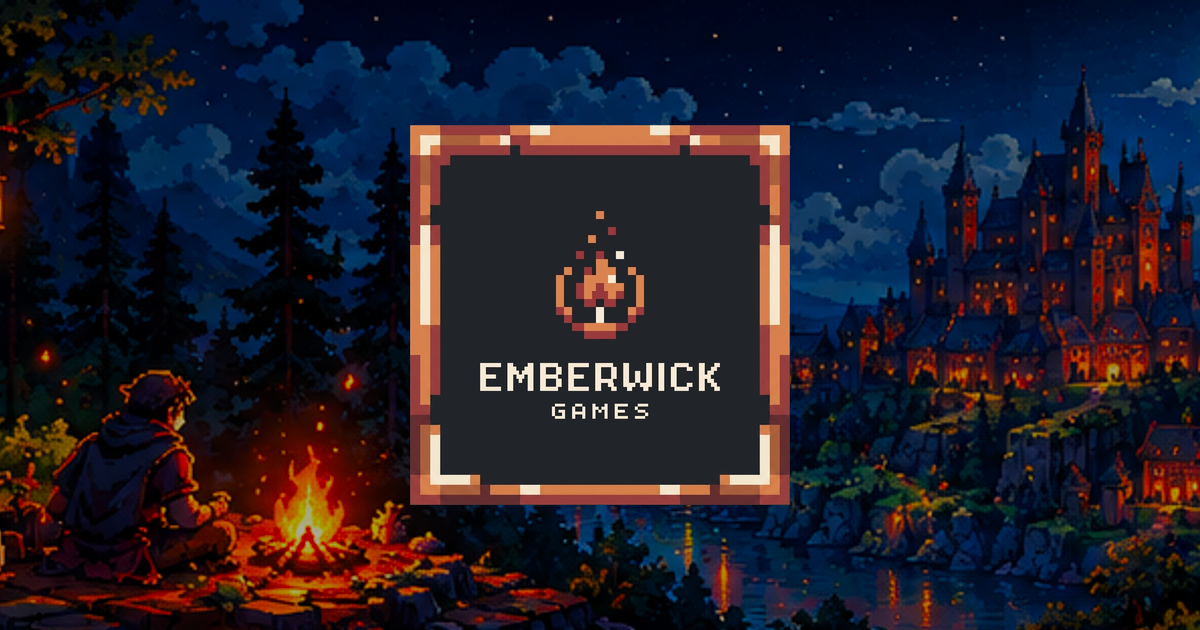
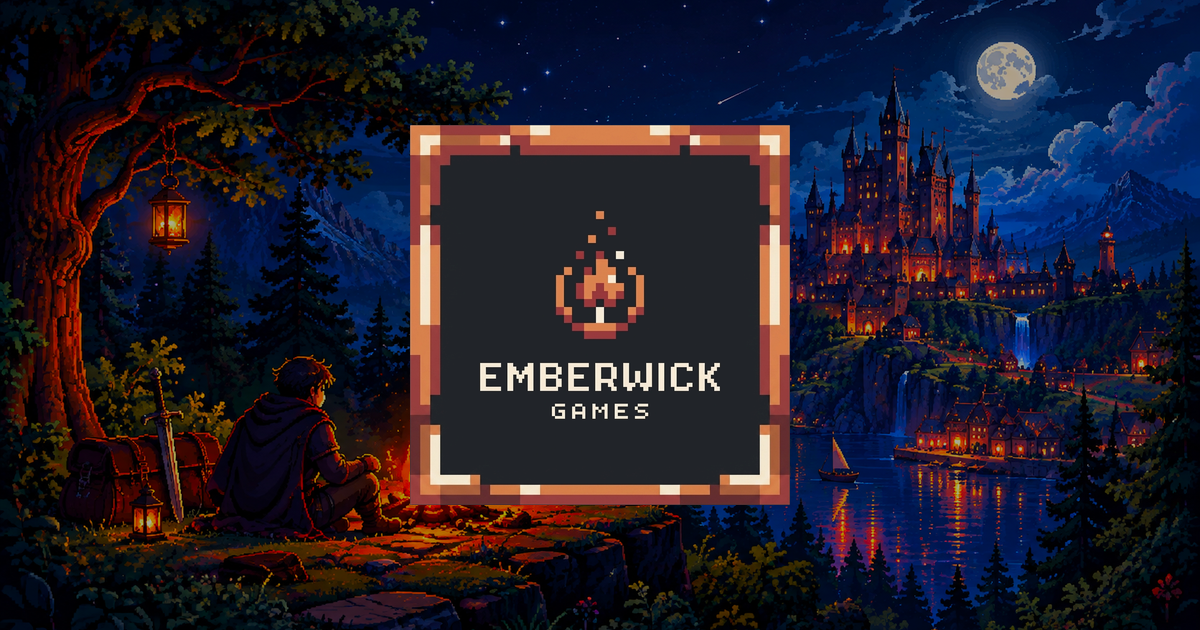
Use dedicated hero scene and refresh OG image
Switch hero background generation from a moodboard crop to the new standalone `Main Page Backgorund.png`, updating `crop-assets.mjs`, `src/assets/scenes/hero.png`, and inventory docs to reflect improved resolution guidance. The Hero component was adjusted for the new composition (spark positions, animation origin, and responsive image widths/sizes), and `public/og-image.png` was regenerated to use the updated hero visual.

diff --git a/docs/asset-inventory.md b/docs/asset-inventory.md
@@ -4,7 +4,8 @@ Her dosya açılıp içeriğine bakılarak tanımlandı; dosya adları esas alı
 
 | Dosya | İçerik | Boyut | Kullanım |
 |---|---|---|---|
-| `Emberwick Games Piksel Sanat Varlık Panosu.png` | **Moodboard**: logo, pixel ikonlar, sosyal ikonlar, buton örnekleri, fontlar, hero/studio/footer/privacy/404 sahneleri, oyun görselleri, Google Play rozeti, dokular | 1536×1024, 2.1 MB | Sanat yönetiminin ana referansı (renk, buton, tipografi, ikon dili). Klasörde sahnelerin ayrı dosyaları olmadığı için şu **yer tutucu kırpımlar** buradan alındı (gömülü yazı ve arayüz öğeleri kırpımın dışında bırakıldı): `scenes/hero.png` (826×312), `scenes/studio.png` (492×212), `scenes/footer.png` (685×95, alttaki sahte menü/logo hariç), `scenes/privacy-scroll.png` (136×148) ve `scenes/privacy-lantern.png` (85×148) (ortadaki "Privacy Policy" yazısı hariç), `scenes/lost-traveller.png` (110×82, 404 sahnesinin yazısız sol kısmı) |
+| `Emberwick Games Piksel Sanat Varlık Panosu.png` | **Moodboard**: logo, pixel ikonlar, sosyal ikonlar, buton örnekleri, fontlar, hero/studio/footer/privacy/404 sahneleri, oyun görselleri, Google Play rozeti, dokular | 1536×1024, 2.1 MB | Sanat yönetiminin ana referansı (renk, buton, tipografi, ikon dili). Klasörde sahnelerin ayrı dosyaları olmadığı için şu **yer tutucu kırpımlar** buradan alındı (gömülü yazı ve arayüz öğeleri kırpımın dışında bırakıldı): `scenes/studio.png` (492×212), `scenes/footer.png` (685×95, alttaki sahte menü/logo hariç), `scenes/privacy-scroll.png` (136×148) ve `scenes/privacy-lantern.png` (85×148) (ortadaki "Privacy Policy" yazısı hariç), `scenes/lost-traveller.png` (110×82, 404 sahnesinin yazısız sol kısmı) |
+| `Main Page Backgorund.png` | Ana sayfa sahnesi: kamp ateşi başında karakter, ağaç ve fener, göl kıyısında kale, dolunay | 1672×941, 2.5 MB | Hero arka planı (`scenes/hero.png`) ve OG görseli |
 | `Logo v2.png` | Emberwick Games logosu: çerçeveli, kor sembolü ve "EMBERWICK GAMES" yazısı, düz koyu zemin (#212429), dış kenarı şeffaf | 1024×1024, 426 KB | `brand/logo-full.png` (şeffaf kenarı kırpılmış tam logo; OG görselinde kullanıldı). `brand/logo-mark.png` ve `brand/logo-wordmark.png`: header ve footer'daki yatay logo için sembol ve yazı ayrı kırpıldı, düz zemin renk arındırmasıyla şeffaflaştırıldı (koyu ve açık zeminde halo kontrolü yapıldı). Favicon'lar (`favicon-32`, `favicon-192`, `apple-touch-icon`, `icon-512`) kor sembolünden üretildi |
 | `512x512.png` | Dice Merge uygulama simgesi (renkli pixel zarlar) | 512×512, 320 KB | Öne çıkan oyun bölümü, /games kartı, oyun detay başlığı |
 | `1024x500.png` | Dice Merge tanıtım görseli (oyunun kendi logosu gömülü) | 1024×500, 632 KB | Öne çıkan oyun kompozisyonu, /games kartı, oyun detay arka planı. Gömülü yazı oyunun logosu olduğu için olduğu gibi kullanıldı |
@@ -32,7 +33,7 @@ Aşağıdakilerin hepsi moodboard'dan kırpılmış yer tutucular. Ayrı, yükse
 
 | Varlık | Mevcut | Önerilen |
 |---|---|---|
-| Hero arka planı | 826×312 (1920 ekranda yaklaşık 3.5 kat büyütülüyor, yumuşak görünüyor) | ≥ 2560×1440 |
+| Hero arka planı | 1672×941 (ayrı dosya; 1920 ekranda yaklaşık 1.15 kat büyütülüyor) | yeterli; 2560 px genişlik olursa daha da keskin olur |
 | Studio sahnesi | 492×212 | ≥ 1600×900 |
 | Footer sahnesi | 685×95 | ≥ 2560×400 |
 | Privacy banner (parşömen ve fener) | 136×148 ve 85×148 | ≥ 1920×480, yazısız tek parça |
